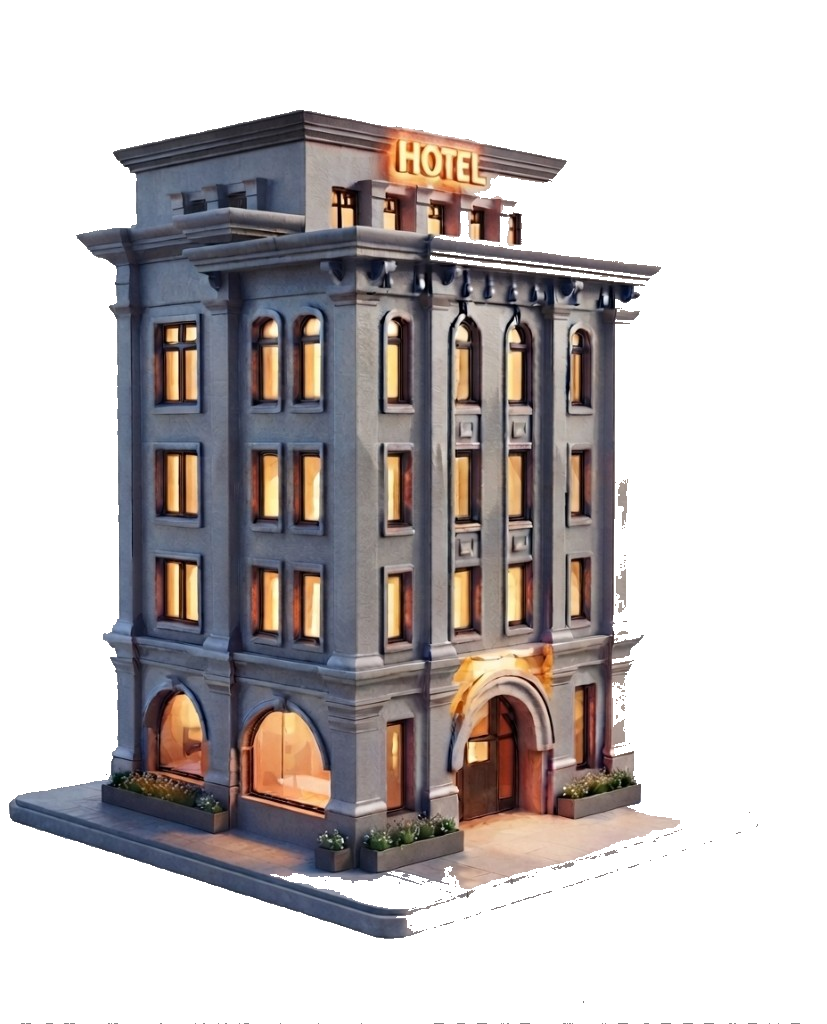
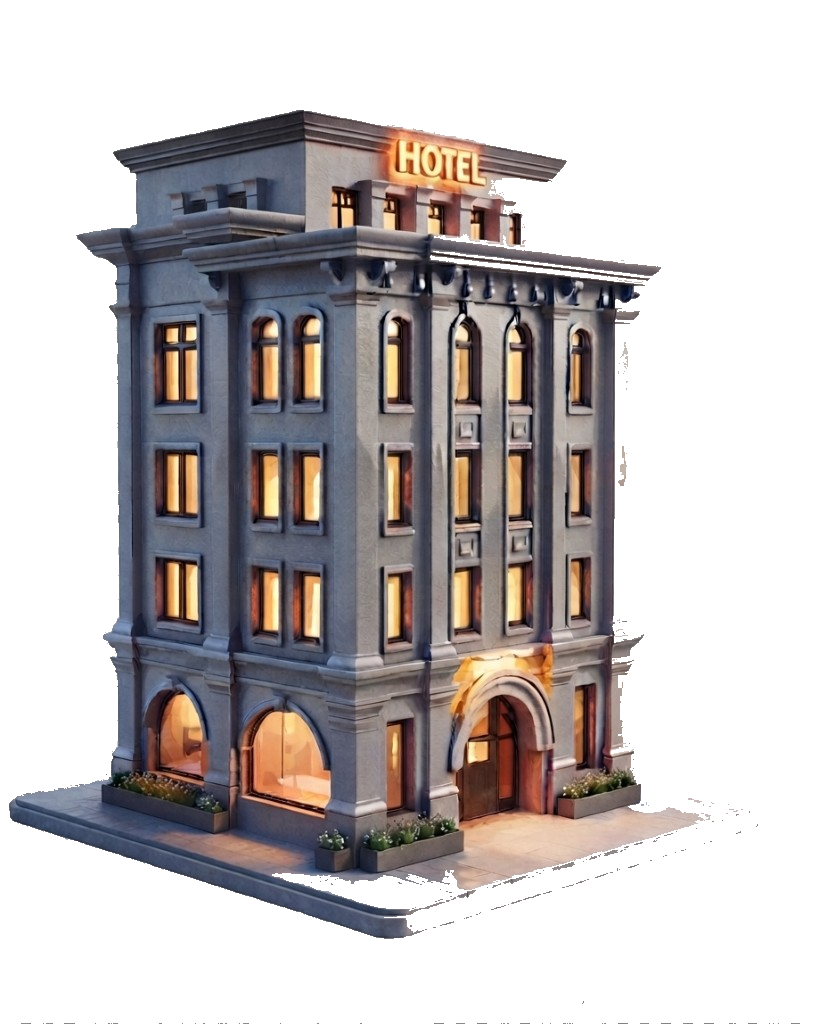
Restore hotel image quality and remove the checkerboard cleanly.

diff --git a/index.html b/index.html
@@ -130,7 +130,7 @@
             <p class="badge" data-i18n="hero.badge" data-cms-key="hero.badge">До 200 человек • сотрудники предприятий и строительные бригады</p>
           </div>
           <div class="hero__visual">
-            <img src="hotel.png?v=4" alt="Kalmius Hostel" width="720" height="720" />
+            <img src="hotel.png?v=5" alt="Kalmius Hostel" width="720" height="720" />
           </div>
         </div>
       </section>

diff --git a/style.css b/style.css
@@ -666,7 +666,7 @@ header nav a,
   object-fit: contain;
   transform: scale(1.1);
   transform-origin: center center;
-  filter: brightness(1.35) contrast(1.15) drop-shadow(0 18px 36px rgba(0, 0, 0, 0.35));
+  filter: drop-shadow(0 16px 28px rgba(0, 0, 0, 0.45));
 }
 
 .hero .badge {
